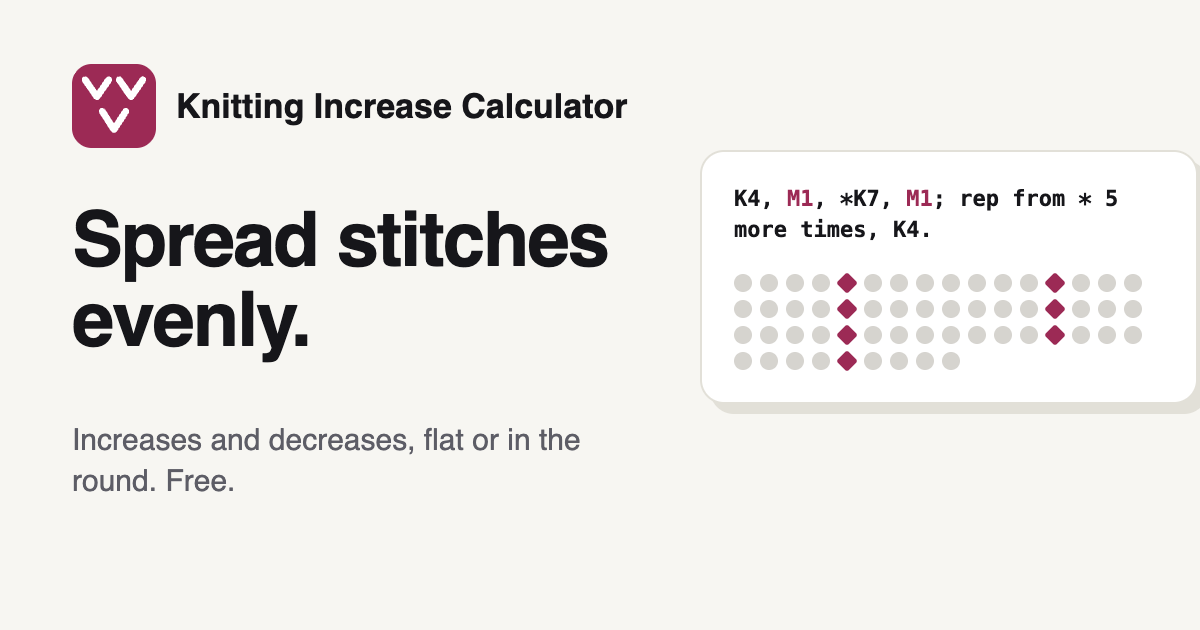
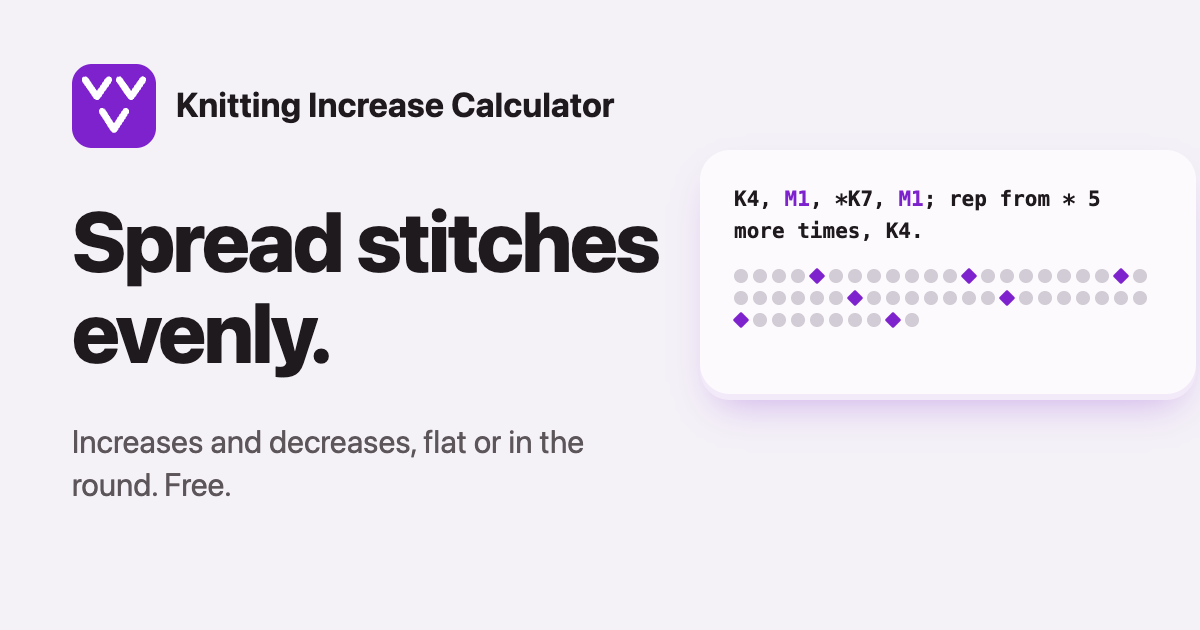
Restyle: Soft clay skin and accent

diff --git a/src/styles/skin-clay.css b/src/styles/skin-clay.css
@@ -1,0 +1,57 @@
+/* Skin: Soft clay (warm, rounded, puffy cards). Active when <html data-skin="clay">.
+   Tokens first, then a few surface rules. Never put clay on data tables. */
+:root[data-skin="clay"] {
+  --font-sans: ui-rounded, "SF Pro Rounded", "Nunito", "Varela Round", ui-sans-serif, system-ui, -apple-system, "Segoe UI", Roboto, "Helvetica Neue", Arial, sans-serif;
+  --font-serif: var(--font-sans);
+  --radius-xl: 20px;
+  --radius-2xl: 30px;
+  --paper: color-mix(in oklab, var(--brand) 7%, #f5f3f1);
+  --card: color-mix(in oklab, var(--brand) 3%, #ffffff);
+  --ink: #1f1a1d;
+  --muted: #5c5559;
+  --line: color-mix(in oklab, var(--brand) 14%, #e4e0e2);
+  --edge: color-mix(in srgb, var(--brand) 30%, #8a8487);
+  --input-bg: color-mix(in oklab, var(--brand) 6%, #f1efed);
+  --brand-ink: color-mix(in oklab, var(--brand) 85%, black);
+  --brand-soft: color-mix(in oklab, var(--brand) 16%, #ffffff);
+  --card-shadow: 0 18px 40px -16px color-mix(in oklab, var(--brand) 35%, transparent), inset 0 -6px 0 color-mix(in oklab, var(--brand) 8%, transparent), inset 0 2px 0 #fff;
+  --panel-shadow: 0 8px 18px -10px color-mix(in oklab, var(--brand) 30%, transparent), inset 0 2px 0 #fff;
+  --result-shadow: 0 10px 22px -12px color-mix(in oklab, var(--brand) 45%, transparent), inset 0 -4px 0 color-mix(in oklab, var(--brand) 12%, transparent), inset 0 2px 0 rgb(255 255 255 / .9);
+  --btn-shadow: 0 6px 14px -6px color-mix(in oklab, var(--brand) 70%, transparent), inset 0 -3px 0 rgb(0 0 0 / .18), inset 0 2px 0 rgb(255 255 255 / .25);
+  --control-shadow: 0 4px 10px -6px color-mix(in oklab, var(--brand) 40%, transparent), inset 0 -2px 0 color-mix(in oklab, var(--brand) 10%, transparent), inset 0 1px 0 #fff;
+  --inset-shadow: inset 0 2px 5px color-mix(in oklab, var(--brand) 14%, transparent);
+}
+:root[data-skin="clay"][data-theme="dark"] {
+  --paper: color-mix(in oklab, var(--brand) 9%, #141215);
+  --card: color-mix(in oklab, var(--brand) 9%, #1f1c21);
+  --ink: #f1edf0;
+  --muted: #b4adb2;
+  --line: color-mix(in oklab, var(--brand) 14%, #33303a);
+  --edge: color-mix(in srgb, var(--brand) 20%, #8a8388);
+  --input-bg: color-mix(in oklab, var(--brand) 6%, #161418);
+  --brand-ink: color-mix(in oklab, var(--brand) 50%, white);
+  --brand-soft: color-mix(in oklab, var(--brand) 28%, #1f1c21);
+  --card-shadow: 0 18px 40px -16px rgb(0 0 0 / .7), inset 0 -6px 0 rgb(0 0 0 / .25), inset 0 1px 0 rgb(255 255 255 / .07);
+  --panel-shadow: 0 8px 18px -10px rgb(0 0 0 / .6), inset 0 1px 0 rgb(255 255 255 / .06);
+  --result-shadow: 0 10px 22px -12px rgb(0 0 0 / .7), inset 0 -4px 0 rgb(0 0 0 / .25), inset 0 1px 0 rgb(255 255 255 / .08);
+  --btn-shadow: 0 6px 14px -6px rgb(0 0 0 / .7), inset 0 -3px 0 rgb(0 0 0 / .25), inset 0 1px 0 rgb(255 255 255 / .2);
+  --control-shadow: 0 4px 10px -6px rgb(0 0 0 / .7), inset 0 1px 0 rgb(255 255 255 / .06);
+  --inset-shadow: inset 0 2px 5px rgb(0 0 0 / .45);
+}
+
+/* Surfaces */
+[data-skin="clay"] .rounded-2xl { border-color: transparent; box-shadow: var(--card-shadow); }
+[data-skin="clay"] fieldset.rounded-xl, [data-skin="clay"] details.rounded-xl { border-width: 0; background: color-mix(in oklab, var(--brand) 5%, var(--card)); box-shadow: var(--panel-shadow); }
+[data-skin="clay"] #result.rounded-2xl, [data-skin="clay"] .result-tile { background: var(--brand-soft); box-shadow: var(--result-shadow); }
+[data-skin="clay"] :is(input, select, textarea):not([type="radio"], [type="checkbox"], [type="file"], [type="range"]) {
+  background: var(--input-bg);
+  border-width: 1.5px;
+  border-radius: 14px !important;
+  box-shadow: var(--inset-shadow);
+}
+[data-skin="clay"] :is(button.border-line, button.border-edge, .btn-edge) { border-width: 1.5px; box-shadow: var(--control-shadow); }
+[data-skin="clay"] :is(button, .btn-solid)[class*="bg-brand"]:not([class*="bg-brand-soft"]) { box-shadow: var(--btn-shadow); }
+[data-skin="clay"] h1, [data-skin="clay"] h2 { letter-spacing: -0.02em; }
+[data-skin="clay"] h1 { font-weight: 800; }
+[data-skin="clay"] header img { box-shadow: var(--btn-shadow); }
+[data-skin="clay"] header { border-bottom-color: transparent; }

diff --git a/src/styles/global.css b/src/styles/global.css
@@ -1,5 +1,7 @@
 @import "tailwindcss" source(none);
 @source "../";
+/* Skins: one file per skin, switched by data-skin on <html>. */
+@import "./skin-clay.css";
 @custom-variant dark (&:where([data-theme="dark"], [data-theme="dark"] *));
 
 @theme inline {
@@ -11,6 +13,7 @@
   --color-ink: var(--ink);
   --color-muted: var(--muted);
   --color-line: var(--line);
+  --color-edge: var(--edge);
   --font-sans: ui-sans-serif, system-ui, -apple-system, "Segoe UI", Roboto, "Helvetica Neue", Arial, sans-serif;
   --font-mono: ui-monospace, "SF Mono", Menlo, Consolas, monospace;
 }
@@ -22,9 +25,11 @@
   --ink: #16161a;
   --muted: #5d5d66;
   --line: #e2e0d8;
+  /* Control edges (inputs, buttons) need 3:1 against the page (WCAG 1.4.11). Card borders stay soft. */
+  --edge: #878c93;
   /* Plain colors first: browsers without color-mix (before Safari 16.2) use them. */
-  --brand-ink: #802246;
-  --brand-soft: #eee2e2;
+  --brand-ink: #671ca9;
+  --brand-soft: #eadcf7;
   --brand-ink: color-mix(in oklab, var(--brand) 82%, black);
   --brand-soft: color-mix(in oklab, var(--brand) 10%, var(--paper));
 }
@@ -35,15 +40,16 @@
   --ink: #ececea;
   --muted: #a0a0a8;
   --line: #2a2b30;
-  --brand-ink: #c88aa1;
-  --brand-soft: #28151e;
+  --edge: #6b7078;
+  --brand-ink: #b27ae2;
+  --brand-soft: #3a1e52;
   --brand-ink: color-mix(in oklab, var(--brand) 55%, white);
   --brand-soft: color-mix(in oklab, var(--brand) 18%, var(--paper));
 }
 
 html { background: var(--paper); scroll-padding-top: 5rem; }
 body { background: var(--paper); color: var(--ink); font-family: var(--font-sans); -webkit-font-smoothing: antialiased; text-rendering: optimizeLegibility; }
-:focus-visible { outline: 2px solid var(--brand-ink); outline-offset: 2px; border-radius: 4px; }
+:focus-visible { outline: 3px solid var(--brand-ink); outline-offset: 2px; border-radius: 4px; }
 @media (prefers-reduced-motion: reduce) { * { transition: none !important; animation: none !important; scroll-behavior: auto !important; } }
 
 /* Long-form text: used by article and legal pages */

diff --git a/src/site.config.ts b/src/site.config.ts
@@ -13,7 +13,8 @@ export default {
   email: 'hello@knittingincreasecalculator.com',       // contact email (shown on Contact and Privacy pages)
   ga4: '',                            // GA4 measurement ID, e.g. 'G-XXXXXXXXXX'. Empty = Google Analytics off
   adsense: '',                        // AdSense publisher ID, e.g. 'ca-pub-1234567890123456'. Empty = ads off
-  brand: '#9c2a55',                   // brand color (hex)
+  brand: '#7e22ce',                   // brand color (hex)
+  skin: 'clay',                       // look: minimal, swiss, clay or retro
   locale: 'en-US',                    // BCP 47 language tag
   ogImage: '/og.png',                        // e.g. '/og.png' (1200x630 file in public/). Empty = no image
   category: 'LifestyleApplication',   // schema.org applicationCategory
